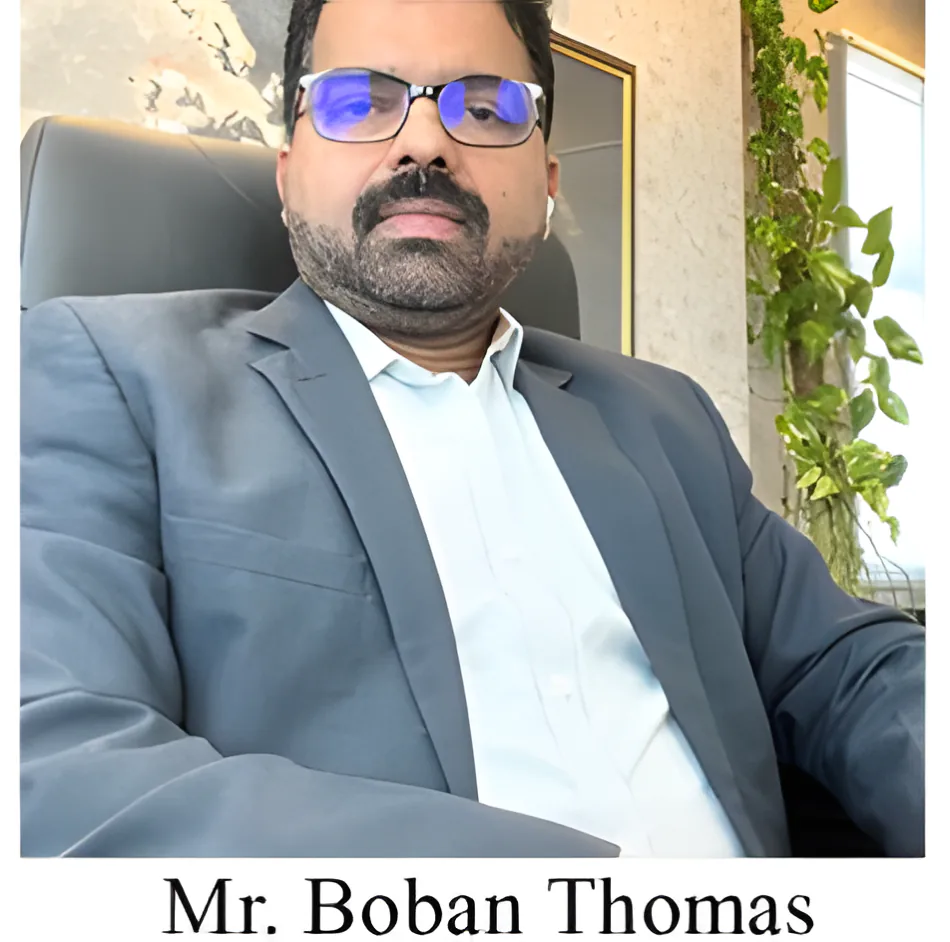
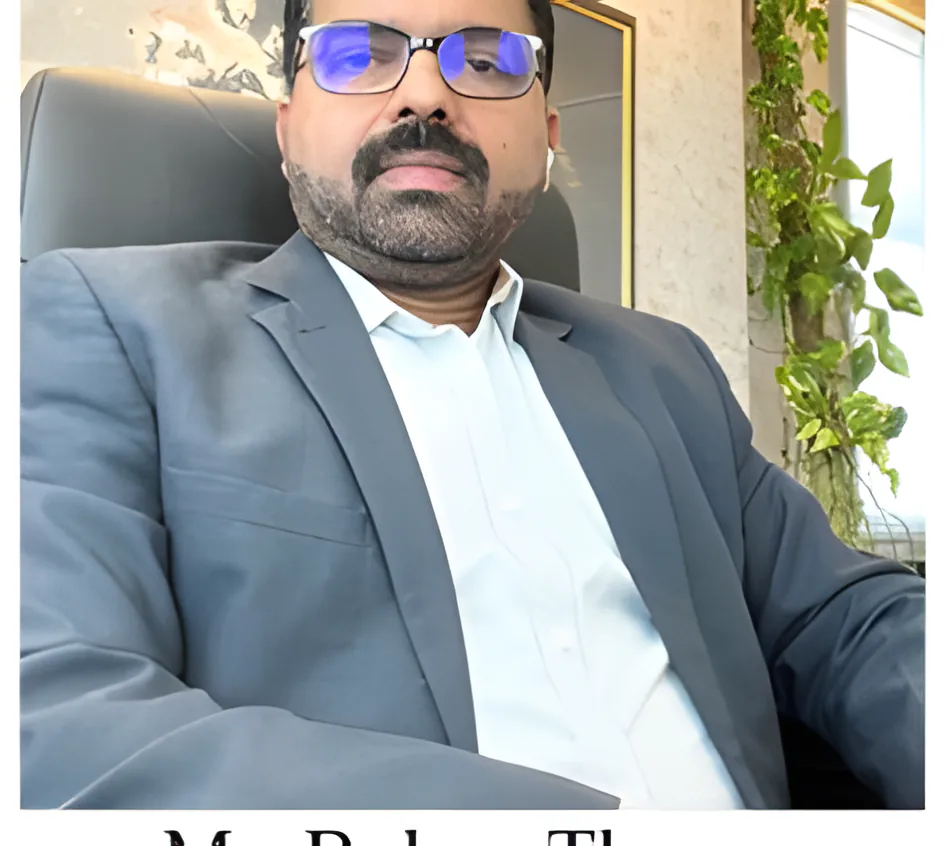
Update concepts 2026-10-30 08:47

diff --git a/dalma-ayurvedic/ar/index.html b/dalma-ayurvedic/ar/index.html
@@ -1,0 +1,167 @@
+<!doctype html>
+<html lang="ar" dir="rtl">
+<head>
+<meta charset="utf-8">
+<meta name="viewport" content="width=device-width, initial-scale=1">
+<meta name="robots" content="noindex, nofollow">
+<title>دلما للعلاج الأيورفيدي والتأهيل · ساحة الزهراء، الشارقة</title>
+<meta name="description" content="علاجات الأيورفيدا الكيرالية في الشارقة: شيرودارا، بيزيتشيل، كيزي، كاتيفاستي وغيرها، يخطّطها طبيبنا. بناية الزامل، ساحة الزهراء، قرب مستشفى الزهراء.">
+<link rel="alternate" hreflang="en" href="https://preview.websmith.ae/dalma-ayurvedic/">
+<link rel="alternate" hreflang="ar" href="https://preview.websmith.ae/dalma-ayurvedic/ar/">
+<link rel="icon" href="../img/logo.webp">
+<link rel="preconnect" href="https://fonts.googleapis.com">
+<link rel="preconnect" href="https://fonts.gstatic.com" crossorigin>
+<link href="https://fonts.googleapis.com/css2?family=IBM+Plex+Sans+Arabic:wght@400;500;600&family=Readex+Pro:wght@400;500;600&family=Lora:ital,wght@0,500;1,500&family=Figtree:wght@500;600&display=swap" rel="stylesheet">
+<link rel="stylesheet" href="../site.css">
+<style>
+:root{--k-display:"Readex Pro","IBM Plex Sans Arabic",system-ui,sans-serif;--k-body:"IBM Plex Sans Arabic",system-ui,sans-serif}
+body{font-size:17.5px;line-height:1.85}
+h1,h2,h3,.k-acc__t,.k-menu__name,.ins__list li,.ft .ft__name{letter-spacing:0!important;line-height:1.3}
+.hero__name{font-family:"Lora",serif;letter-spacing:-.04em!important;line-height:.9!important}
+.hero__kind{font-style:normal;font-weight:500;font-size:clamp(1.6rem,3.2vw,2.8rem)}
+.ft .ft__name{font-family:"Lora",serif;letter-spacing:-.04em!important;line-height:.85}
+.ft .ft__name small{font-family:var(--k-body);font-style:normal}
+.ins__list li{font-family:"Lora",serif}
+em{font-style:normal}
+.k-visit tr.is-today td:first-child::after{content:" · اليوم"}
+</style>
+<link rel="preload" as="image" href="../img/room-dhara.webp" fetchpriority="high">
+<script>document.documentElement.classList.add('k-js')</script>
+</head>
+<body>
+<a class="skip" href="#main">تخطَّ إلى المحتوى</a>
+<header class="hd">
+  <a class="hd__brand" href="./"><img src="../img/logo.webp" alt="" width="46" height="35"><span><b lang="en">Dalma</b><small>دلما للعلاج الأيورفيدي والتأهيل</small></span></a>
+  <nav class="hd__nav" aria-label="القائمة">
+    <a class="k-link" href="./" aria-current="page">الرئيسية</a>
+    <a class="k-link" href="#prices">العلاجات والأسعار</a>
+    <a class="k-link" href="#doctor">الطبيب</a>
+    <a class="k-link" href="#visit">موقعنا</a>
+  </nav>
+  <div class="hd__side">
+    <a class="hd__tel" href="tel:+97165510666" dir="ltr"><span class="k-roll"><span data-text="06 551 0666">06 551 0666</span></span></a>
+    <div><nav class="k-lang" aria-label="اللغة"><a href="../" lang="en" hreflang="en">EN</a><a href="./" lang="ar" aria-current="true">عربي</a></nav></div>
+    <a class="hd__book" href="https://wa.me/971509678737?text=%D9%85%D8%B1%D8%AD%D8%A8%D8%A7%D9%8B%20%D8%AF%D9%84%D9%85%D8%A7%D8%8C%20%D8%A3%D8%B1%D9%8A%D8%AF%20%D8%AD%D8%AC%D8%B2%20%D8%A7%D8%B3%D8%AA%D8%B4%D8%A7%D8%B1%D8%A9" target="_blank" rel="noopener" aria-label="احجز عبر واتساب"><svg viewBox="0 0 24 24" aria-hidden="true"><path fill="currentColor" d="M12 2a10 10 0 0 0-8.6 15.1L2 22l5-1.3A10 10 0 1 0 12 2Zm0 18.2a8.2 8.2 0 0 1-4.2-1.2l-.3-.2-3 .8.8-2.9-.2-.3A8.2 8.2 0 1 1 12 20.2Z"/></svg><span>احجز عبر واتساب</span></a>
+  </div>
+</header>
+<nav class="subnav" aria-label="الصفحات"><a href="./" aria-current="page">الرئيسية</a><a href="#prices">الأسعار</a><a href="#doctor">الطبيب</a><a href="#visit">موقعنا</a><a href="tel:+97165510666">اتصل <bdi dir="ltr">06 551 0666</bdi></a></nav>
+<main id="main">
+<section class="hero" aria-label="مقدمة" data-k-hours='{"0":[9,22],"1":[9,22],"2":[9,22],"3":[9,22],"4":[9,22],"5":[9,21],"6":[9,22]}' data-k-tz="Asia/Dubai" data-k-open="مفتوح الآن" data-k-shut="مغلق الآن">
+  <div>
+    <h1><span class="m"><span class="w hero__name" style="--i:0" lang="en">Dalma</span></span><span class="m"><span class="w hero__kind" style="--i:1">مركز دلما للعلاج الأيورفيدي والتأهيل</span></span></h1>
+    <p class="hero__lead fd" style="--i:1">أيورفيدا كيرالا في الشارقة. يقابلك الطبيب أولاً، يقرأ النبض، ثم يضع لك برنامجاً علاجياً للظهر أو المفاصل أو التوتر أو الوزن أو البشرة. الجلسات يومية في غرفنا بساحة الزهراء.</p>
+    <div class="hero__acts fd" style="--i:2">
+      <a class="k-btn" data-k-magnetic="0.25" href="https://wa.me/971509678737?text=%D9%85%D8%B1%D8%AD%D8%A8%D8%A7%D9%8B%20%D8%AF%D9%84%D9%85%D8%A7%D8%8C%20%D8%A3%D8%B1%D9%8A%D8%AF%20%D8%AD%D8%AC%D8%B2%20%D8%A7%D8%B3%D8%AA%D8%B4%D8%A7%D8%B1%D8%A9" target="_blank" rel="noopener"><svg viewBox="0 0 24 24" aria-hidden="true"><path fill="currentColor" d="M12 2a10 10 0 0 0-8.6 15.1L2 22l5-1.3A10 10 0 1 0 12 2Zm0 18.2a8.2 8.2 0 0 1-4.2-1.2l-.3-.2-3 .8.8-2.9-.2-.3A8.2 8.2 0 1 1 12 20.2Z"/></svg>احجز استشارة <span class="k-arrow" aria-hidden="true">→</span></a>
+      <a class="hero__call k-link" href="tel:+97165510666">أو اتصل <bdi dir="ltr">06 551 0666</bdi></a>
+    </div>
+  </div>
+  <figure class="hero__arch">
+    <div class="frame"><img src="../img/room-dhara.webp" alt="إحدى غرف العلاج في دلما: سرير الدروني الخشبي ووعاء الدارا النحاسي المستخدم في الشيرودارا" width="2400" height="1644" fetchpriority="high"></div>
+    <figcaption class="fd" style="--i:3">إحدى غرف العلاج. الوعاء النحاسي فوق السرير مخصّص للشيرودارا.</figcaption>
+  </figure>
+  <dl class="hero__facts">
+    <div class="fd" style="--i:3"><dt>العنوان</dt><dd>بناية الزامل، ساحة الزهراء، الشارقة. قرب مستشفى الزهراء.</dd></div>
+    <div class="fd" style="--i:4"><dt>مفتوح يومياً</dt><dd>9 صباحاً – 10 مساءً<br>الجمعة 9 صباحاً – 9 مساءً<br><span class="badge" data-k-badge hidden><i></i><span>مفتوح الآن</span></span></dd></div>
+    <div class="fd" style="--i:5"><dt>الهاتف</dt><dd><a href="tel:+97165510666" dir="ltr">06 551 0666</a><br><a href="tel:+971509678737" dir="ltr">050 967 8737</a></dd></div>
+    <div class="fd" style="--i:6"><dt>التأمين</dt><dd>ضمان، AXA، Bupa، نيورون <a href="#insurance">و21 شركة أخرى</a></dd></div>
+  </dl>
+</section>
+
+<section class="sec" aria-labelledby="why-h">
+  <div class="sec__head sec__head--split"><h2 id="why-h" data-reveal="lines">لماذا يأتي إلينا المراجعون</h2><p data-reveal>أخبر الطبيب بما تشعر به وهو يختار العلاج. هذه أكثر الحالات التي نراها، والعلاجات المستخدمة لها عادةً.</p></div>
+  <div class="k-acc" data-k-acc><div class="k-acc__list"><details class="k-acc__row" data-img="../img/t-greeva.webp"><summary><span class="k-acc__n">01</span><span class="k-acc__t">آلام الظهر والرقبة<small>الانزلاق الغضروفي، الديسك، التيبّس</small></span><span class="k-acc__plus" aria-hidden="true"></span></summary><div class="k-acc__body"><div><p class="why">زيت طبي دافئ يُحفظ فوق موضع الألم داخل حلقة من العجين العشبي، ثم تدليك بالصُرر العشبية.</p><ul><li><b>Kativasthi</b> لأسفل الظهر</li><li><b>Greeva vasti</b> للرقبة</li><li><b>Podikizhi</b> صُرر المسحوق العشبي</li></ul></div><img src="../img/t-greeva.webp" alt="آلام الظهر والرقبة" loading="lazy"><p><a class="k-link k-link--under" href="https://wa.me/971509678737?text=%D9%85%D8%B1%D8%AD%D8%A8%D8%A7%D9%8B%D8%8C%20%D8%A3%D8%B9%D8%A7%D9%86%D9%8A%20%D9%85%D9%86%20%D8%A3%D9%84%D9%85%20%D9%81%D9%8A%20%D8%A7%D9%84%D8%B8%D9%87%D8%B1%20%D8%A3%D9%88%20%D8%A7%D9%84%D8%B1%D9%82%D8%A8%D8%A9%20%D9%88%D8%A3%D8%B1%D9%8A%D8%AF%20%D9%85%D9%88%D8%B9%D8%AF%D8%A7%D9%8B%20%D9%85%D8%B9%20%D8%A7%D9%84%D8%B7%D8%A8%D9%8A%D8%A8" target="_blank" rel="noopener">اسألنا على واتساب <span class="k-arrow" aria-hidden="true">→</span></a></p></div></details><details class="k-acc__row" data-img="../img/t-kizhi.webp"><summary><span class="k-acc__n">02</span><span class="k-acc__t">الروماتيزم وآلام المفاصل<small>الركبة، الكتف، الورك</small></span><span class="k-acc__plus" aria-hidden="true"></span></summary><div class="k-acc__body"><div><p class="why">صُرر أعشاب مُدفأة بالزيت تُضغط وتُدلّك على المفصل يومياً لمدة 7 إلى 14 يوماً.</p><ul><li><b>Njavara kizhi</b> صُرر الأرز الطبي</li><li><b>Elakizhi</b> صُرر الأوراق</li><li><b>Januvasti</b> للركبة</li></ul></div><img src="../img/t-kizhi.webp" alt="الروماتيزم وآلام المفاصل" loading="lazy"><p><a class="k-link k-link--under" href="https://wa.me/971509678737?text=%D9%85%D8%B1%D8%AD%D8%A8%D8%A7%D9%8B%D8%8C%20%D8%A3%D8%B1%D9%8A%D8%AF%20%D8%A7%D9%84%D8%A7%D8%B3%D8%AA%D9%81%D8%B3%D8%A7%D8%B1%20%D8%B9%D9%86%20%D8%B9%D9%84%D8%A7%D8%AC%20%D8%A2%D9%84%D8%A7%D9%85%20%D8%A7%D9%84%D9%85%D9%81%D8%A7%D8%B5%D9%84" target="_blank" rel="noopener">اسألنا على واتساب <span class="k-arrow" aria-hidden="true">→</span></a></p></div></details><details class="k-acc__row" data-img="../img/t-sirodhara.webp"><summary><span class="k-acc__n">03</span><span class="k-acc__t">التوتر والأرق والصداع<small>باقة إدارة التوتر لمدة 7 أيام</small></span><span class="k-acc__plus" aria-hidden="true"></span></summary><div class="k-acc__body"><div><p class="why">في الشيرودارا ينساب الزيت الطبي بخيط متواصل على الجبهة مع تدليك هادئ لفروة الرأس. نستخدمه للأرق والتوتر والصداع المزمن وضعف التركيز.</p><ul><li><b>Sirodhara</b> ساعة واحدة، 200 درهم</li><li>باقة إدارة التوتر، 7 أيام، 1,400 درهم</li></ul></div><img src="../img/t-sirodhara.webp" alt="التوتر والأرق والصداع" loading="lazy"><p><a class="k-link k-link--under" href="https://wa.me/971509678737?text=%D9%85%D8%B1%D8%AD%D8%A8%D8%A7%D9%8B%D8%8C%20%D8%A3%D8%B1%D9%8A%D8%AF%20%D8%A7%D9%84%D8%A7%D8%B3%D8%AA%D9%81%D8%B3%D8%A7%D8%B1%20%D8%B9%D9%86%20%D8%A8%D8%A7%D9%82%D8%A9%20%D8%A5%D8%AF%D8%A7%D8%B1%D8%A9%20%D8%A7%D9%84%D8%AA%D9%88%D8%AA%D8%B1" target="_blank" rel="noopener">اسألنا على واتساب <span class="k-arrow" aria-hidden="true">→</span></a></p></div></details><details class="k-acc__row" data-img="../img/t-abhyanga.webp"><summary><span class="k-acc__n">04</span><span class="k-acc__t">إنقاص الوزن<small>برنامج التنحيف لمدة 10 أيام</small></span><span class="k-acc__plus" aria-hidden="true"></span></summary><div class="k-acc__body"><div><p class="why">عشرة أيام من الأودوارتانام، وهو تدليك عميق بالمساحيق العشبية، مع حمية يصفها الطبيب. الالتزام بالحمية جزء من العلاج.</p><ul><li>برنامج إنقاص الوزن، 10 أيام، 1,850 درهم</li></ul></div><img src="../img/t-abhyanga.webp" alt="إنقاص الوزن" loading="lazy"><p><a class="k-link k-link--under" href="https://wa.me/971509678737?text=%D9%85%D8%B1%D8%AD%D8%A8%D8%A7%D9%8B%D8%8C%20%D8%A3%D8%B1%D9%8A%D8%AF%20%D8%A7%D9%84%D8%A7%D8%B3%D8%AA%D9%81%D8%B3%D8%A7%D8%B1%20%D8%B9%D9%86%20%D8%A8%D8%B1%D9%86%D8%A7%D9%85%D8%AC%20%D8%A5%D9%86%D9%82%D8%A7%D8%B5%20%D8%A7%D9%84%D9%88%D8%B2%D9%86%2010%20%D8%A3%D9%8A%D8%A7%D9%85" target="_blank" rel="noopener">اسألنا على واتساب <span class="k-arrow" aria-hidden="true">→</span></a></p></div></details><details class="k-acc__row" data-img="../img/t-hands.webp"><summary><span class="k-acc__n">05</span><span class="k-acc__t">بعد الولادة<small>رعاية أيورفيدية للأمهات الجدد</small></span><span class="k-acc__plus" aria-hidden="true"></span></summary><div class="k-acc__body"><div><p class="why">رعاية كيرالية تقليدية للأسابيع التي تلي الولادة، يخطّطها الطبيب حسب تعافيك.</p><ul><li>استشارة الطبيب</li><li>تدليك Abhyanga لطيف</li><li>نصائح الغذاء والعناية في البيت</li></ul></div><img src="../img/t-hands.webp" alt="بعد الولادة" loading="lazy"><p><a class="k-link k-link--under" href="https://wa.me/971509678737?text=%D9%85%D8%B1%D8%AD%D8%A8%D8%A7%D9%8B%D8%8C%20%D8%A3%D8%B1%D9%8A%D8%AF%20%D8%A7%D9%84%D8%A7%D8%B3%D8%AA%D9%81%D8%B3%D8%A7%D8%B1%20%D8%B9%D9%86%20%D8%B1%D8%B9%D8%A7%D9%8A%D8%A9%20%D9%85%D8%A7%20%D8%A8%D8%B9%D8%AF%20%D8%A7%D9%84%D9%88%D9%84%D8%A7%D8%AF%D8%A9" target="_blank" rel="noopener">اسألنا على واتساب <span class="k-arrow" aria-hidden="true">→</span></a></p></div></details><details class="k-acc__row" data-img="../img/t-netra.webp"><summary><span class="k-acc__n">06</span><span class="k-acc__t">إجهاد العينين<small>من الشاشات والتوتر وقلة النوم</small></span><span class="k-acc__plus" aria-hidden="true"></span></summary><div class="k-acc__body"><div><p class="why">في النيترا تاربانام يُحفظ السمن الطبي فوق كل عين من 15 إلى 30 دقيقة لتخفيف الإجهاد.</p><ul><li><b>Netra Tarpanam</b></li><li><b>Nasya</b> 30 دقيقة، 50 درهم</li></ul></div><img src="../img/t-netra.webp" alt="إجهاد العينين" loading="lazy"><p><a class="k-link k-link--under" href="https://wa.me/971509678737?text=%D9%85%D8%B1%D8%AD%D8%A8%D8%A7%D9%8B%D8%8C%20%D8%A3%D8%B1%D9%8A%D8%AF%20%D8%A7%D9%84%D8%A7%D8%B3%D8%AA%D9%81%D8%B3%D8%A7%D8%B1%20%D8%B9%D9%86%20%D8%B9%D9%84%D8%A7%D8%AC%20%D8%A7%D9%84%D8%B9%D9%8A%D9%86%D9%8A%D9%86" target="_blank" rel="noopener">اسألنا على واتساب <span class="k-arrow" aria-hidden="true">→</span></a></p></div></details></div></div>
+</section>
+
+<section class="doc" id="doctor" aria-labelledby="doc-h">
+  <div class="doc__ph" data-reveal="clip"><img src="../img/dr-tinu.webp" alt="الدكتور تينو ثامبي أمام لافتة دلما" width="1600" height="1107" loading="lazy"></div>
+  <div>
+    <h2 id="doc-h" data-reveal="lines">الدكتور بي. تينو ثامبي</h2>
+    <p class="doc__role" data-reveal><span lang="en">B.A.M.S</span> · كبير الاستشاريين الأيورفيديين</p>
+    <p data-reveal>ينحدر من عائلة أيورفيدية تقليدية في كيرالا، وهو ممارس أيورفيدي معتمد من وزارة الصحة. قبل الشارقة أدار مركزه الخاص للبانشاكارما في الهند.</p>
+    <ul class="doc__list" data-reveal>
+      <li><span>الدراسة</span>بكالوريوس الطب والجراحة الأيورفيدية، 2002، مومباي</li>
+      <li><span>أكثر ما يعالجه</span>آلام الظهر والرقبة المزمنة، مشاكل البشرة، التوتر، أمراض نمط الحياة</li>
+      <li><span>أيضاً</span>العقم عند الرجال والنساء، برامج البانشاكارما</li>
+    </ul>
+    <div class="doc__md" data-reveal><img src="../img/boban-thomas.webp" alt="السيد بوبان توماس" width="950" height="846" loading="lazy"><div><b lang="en">Mr. Boban Thomas</b><span>المدير العام</span></div></div>
+  </div>
+</section>
+
+<section class="sec" id="prices" aria-labelledby="k-menu-h" style="padding-top:clamp(40px,6vw,90px)">
+  <div class="sec__head sec__head--split"><h2 id="k-menu-h" data-reveal="lines">الأسعار</h2><p data-reveal>من قائمة أسعارنا الحالية بالدرهم. نؤكّد السعر بعد الاستشارة وقبل بدء أي علاج.</p></div>
+  <div class="k-menu" data-k-menu>
+    <div class="k-menu__tabs" role="tablist" data-k-menu-tabs>
+      <button role="tab" aria-selected="true" data-tab="single">العلاجات</button>
+      <button role="tab" aria-selected="false" data-tab="course">البرامج</button>
+      <button role="tab" aria-selected="false" data-tab="member">العضوية</button>
+      <span class="k-menu__ink" aria-hidden="true"></span>
+    </div>
+    <div class="k-menu__panel" role="tabpanel" data-panel="single">
+      <ul class="k-menu__items">
+        <li class="k-menu__item"><div class="k-menu__line"><span class="k-menu__name">أبهيانغا <small lang="en">Abhyanga</small></span><span class="k-menu__dots"></span><span class="k-menu__price">100 <small>درهم</small></span></div><p class="k-menu__desc">ساعة. تدليك كامل للجسم بالزيوت الطبية.</p></li>
+        <li class="k-menu__item"><div class="k-menu__line"><span class="k-menu__name">بودي كيزي <small lang="en">Podikizhi</small></span><span class="k-menu__dots"></span><span class="k-menu__price">125 <small>درهم</small></span></div><p class="k-menu__desc">ساعة. صُرر المسحوق العشبي، لآلام الظهر والروماتيزم.</p></li>
+        <li class="k-menu__item"><div class="k-menu__line"><span class="k-menu__name">شيرودارا <small lang="en">Sirodhara</small></span><span class="k-menu__dots"></span><span class="k-menu__price">200 <small>درهم</small></span></div><p class="k-menu__desc">ساعة. زيت ينساب بخيط متواصل على الجبهة.</p></li>
+        <li class="k-menu__item"><div class="k-menu__line"><span class="k-menu__name">ناسيا <small lang="en">Nasya</small></span><span class="k-menu__dots"></span><span class="k-menu__price">50 <small>درهم</small></span></div><p class="k-menu__desc">30 دقيقة. زيت طبي للأنف والجيوب.</p></li>
+      </ul>
+      <figure class="k-menu__feat"><img src="../img/t-pizhichil.webp" alt="بيزيتشيل: معالجتان تصبّان الزيت الدافئ" loading="lazy"><figcaption>بيزيتشيل، صبّ الزيت الدافئ مع التدليك</figcaption></figure>
+    </div>
+    <div class="k-menu__panel" role="tabpanel" data-panel="course" hidden>
+      <ul class="k-menu__items">
+        <li class="k-menu__item"><div class="k-menu__line"><span class="k-menu__name">برنامج إنقاص الوزن</span><span class="k-menu__dots"></span><span class="k-menu__price">1,850 <small>درهم</small></span></div><p class="k-menu__desc">10 أيام. تدليك بالمساحيق العشبية مع حمية يصفها الطبيب.</p></li>
+        <li class="k-menu__item"><div class="k-menu__line"><span class="k-menu__name">باقة إدارة التوتر</span><span class="k-menu__dots"></span><span class="k-menu__price">1,400 <small>درهم</small></span></div><p class="k-menu__desc">7 أيام، أساسها الشيرودارا، للأرق والتوتر والصداع.</p></li>
+      </ul>
+      <figure class="k-menu__feat"><img src="../img/t-sirodhara.webp" alt="شيرودارا من وعاء نحاسي" loading="lazy"><figcaption>الشيرودارا، أساس باقة التوتر</figcaption></figure>
+    </div>
+    <div class="k-menu__panel" role="tabpanel" data-panel="member" hidden>
+      <ul class="k-menu__items">
+        <li class="k-menu__item"><div class="k-menu__line"><span class="k-menu__name">الفضية<span class="k-menu__tag">6 أشهر</span></span><span class="k-menu__dots"></span><span class="k-menu__price">2,500 <small>درهم</small></span></div><p class="k-menu__desc">25 تدليكاً عشبياً مع حمام بخار، شيرودارا واحدة، تنظيف بشرة عشبي واحد، 5 استشارات.</p></li>
+        <li class="k-menu__item"><div class="k-menu__line"><span class="k-menu__name">الذهبية<span class="k-menu__tag">سنة</span></span><span class="k-menu__dots"></span><span class="k-menu__price">5,000 <small>درهم</small></span></div><p class="k-menu__desc">50 تدليكاً عشبياً مع حمام بخار، 2 شيرودارا، 2 تنظيف بشرة عشبي، استشارات غير محدودة.</p></li>
+        <li class="k-menu__item"><div class="k-menu__line"><span class="k-menu__name">البلاتينية<span class="k-menu__tag">سنة</span></span><span class="k-menu__dots"></span><span class="k-menu__price">7,500 <small>درهم</small></span></div><p class="k-menu__desc">75 تدليكاً عشبياً مع حمام بخار، 5 شيرودارا، 5 تنظيف بشرة عشبي، استشارات غير محدودة، وشهر يوغا مجاناً.</p></li>
+      </ul>
+      <figure class="k-menu__feat"><img src="../img/room-steam.webp" alt="صندوق البخار العشبي وسرير العلاج في دلما" loading="lazy"><figcaption>كل تدليك في العضوية يشمل حمام البخار</figcaption></figure>
+    </div>
+  </div>
+  <p style="margin-top:34px"><a class="k-link k-link--under" href="../services.html" hreflang="en">تفاصيل كل علاج (بالإنجليزية) <span class="k-arrow" aria-hidden="true">→</span></a></p>
+</section>
+
+<section class="ins" id="insurance" aria-labelledby="ins-h">
+  <div class="sec">
+    <div class="sec__head sec__head--split"><h2 id="ins-h" data-reveal="lines">شركات التأمين التي نتعامل معها</h2><p data-reveal>أحضر بطاقة التأمين، ونتحقق من تغطيتك في الاستقبال قبل بدء العلاج.</p></div>
+    <ul class="ins__list" data-reveal-stagger="30"><li data-reveal lang="en" dir="ltr" style="text-align:right">Daman</li><li data-reveal lang="en" dir="ltr" style="text-align:right">ADNIC</li><li data-reveal lang="en" dir="ltr" style="text-align:right">AXA</li><li data-reveal lang="en" dir="ltr" style="text-align:right">Bupa</li><li data-reveal lang="en" dir="ltr" style="text-align:right">Neuron</li><li data-reveal lang="en" dir="ltr" style="text-align:right">NextCare</li><li data-reveal lang="en" dir="ltr" style="text-align:right">Mednet</li><li data-reveal lang="en" dir="ltr" style="text-align:right">Almadallah</li><li data-reveal lang="en" dir="ltr" style="text-align:right">Oman Insurance</li><li data-reveal lang="en" dir="ltr" style="text-align:right">Orient Insurance</li><li data-reveal lang="en" dir="ltr" style="text-align:right">Salama</li><li data-reveal lang="en" dir="ltr" style="text-align:right">Takaful</li><li data-reveal lang="en" dir="ltr" style="text-align:right">Al Fujairah National</li><li data-reveal lang="en" dir="ltr" style="text-align:right">NGI</li><li data-reveal lang="en" dir="ltr" style="text-align:right">Qatar Insurance</li><li data-reveal lang="en" dir="ltr" style="text-align:right">AIG</li><li data-reveal lang="en" dir="ltr" style="text-align:right">Zurich</li><li data-reveal lang="en" dir="ltr" style="text-align:right">RSA</li><li data-reveal lang="en" dir="ltr" style="text-align:right">MetLife</li><li data-reveal lang="en" dir="ltr" style="text-align:right">Tokio Marine</li><li data-reveal lang="en" dir="ltr" style="text-align:right">Aetna</li><li data-reveal lang="en" dir="ltr" style="text-align:right">Amity</li><li data-reveal lang="en" dir="ltr" style="text-align:right">SAICO</li><li data-reveal lang="en" dir="ltr" style="text-align:right">New India Assurance</li><li data-reveal lang="en" dir="ltr" style="text-align:right">Oriental Insurance</li></ul>
+    <p class="ins__note" data-reveal>غير متأكد من تأمينك؟ أرسل صورة البطاقة على <a href="https://wa.me/971509678737?text=%D9%85%D8%B1%D8%AD%D8%A8%D8%A7%D9%8B%D8%8C%20%D9%87%D9%84%20%D9%8A%D9%85%D9%83%D9%86%D9%83%D9%85%20%D8%A7%D9%84%D8%AA%D8%AD%D9%82%D9%82%20%D9%85%D9%86%20%D8%AA%D8%BA%D8%B7%D9%8A%D8%A9%20%D8%A7%D9%84%D8%AA%D8%A3%D9%85%D9%8A%D9%86%D8%9F" target="_blank" rel="noopener">واتساب</a> ونتحقق لك.</p>
+  </div>
+</section>
+
+<section class="k-visit" id="visit" aria-labelledby="k-visit-h" data-k-hours='{"0":[9,22],"1":[9,22],"2":[9,22],"3":[9,22],"4":[9,22],"5":[9,21],"6":[9,22]}' data-k-tz="Asia/Dubai" data-k-open="مفتوح الآن" data-k-shut="مغلق الآن">
+  <div class="k-visit__info">
+    <h2 id="k-visit-h" data-reveal="lines">موقعنا</h2>
+    <span class="k-visit__badge" data-k-badge hidden><i></i><span>مفتوح الآن</span></span>
+    <p class="k-visit__addr">بناية الزامل، ساحة الزهراء، الشارقة</p>
+    <p class="k-visit__land">قرب مستشفى الزهراء وبرج الساعة. ص.ب 77302.</p>
+    <table>
+      <tr data-day="6"><td>السبت</td><td>9 ص – 10 م</td></tr><tr data-day="0"><td>الأحد</td><td>9 ص – 10 م</td></tr><tr data-day="1"><td>الاثنين</td><td>9 ص – 10 م</td></tr><tr data-day="2"><td>الثلاثاء</td><td>9 ص – 10 م</td></tr><tr data-day="3"><td>الأربعاء</td><td>9 ص – 10 م</td></tr><tr data-day="4"><td>الخميس</td><td>9 ص – 10 م</td></tr><tr data-day="5"><td>الجمعة</td><td>9 ص – 9 م</td></tr>
+    </table>
+    <div class="k-visit__acts">
+      <a class="k-visit__go" data-k-magnetic href="https://www.google.com/maps/dir/?api=1&amp;destination=Dalma+Ayurvedic+Rehabilitation+Centre+Al+Zahra+Square+Sharjah" target="_blank" rel="noopener">الاتجاهات <span class="k-arrow" aria-hidden="true">→</span></a>
+      <a class="k-visit__call" data-k-magnetic href="tel:+97165510666">اتصل <bdi dir="ltr">06 551 0666</bdi></a>
+    </div>
+  </div>
+  <div class="k-visit__map" style="--k-map-poster:url(../img/opening-reception.webp)" data-k-map data-k-map-tap data-src="https://www.google.com/maps?q=Dalma+Ayurvedic+Rehabilitation+Centre+Al+Zahra+Square+Sharjah&amp;z=16&amp;output=embed&amp;hl=ar"><button type="button">اعرض الخريطة</button></div>
+</section>
+</main>
+<footer class="ft">
+  <div class="ft__in">
+    <p class="ft__name"><span lang="en">Dalma</span><small>دلما للعلاج الأيورفيدي والتأهيل</small></p>
+    <div class="ft__cols">
+      <div><h3>العنوان</h3><p>بناية الزامل<br>ساحة الزهراء، الشارقة<br>قرب مستشفى الزهراء<br>ص.ب 77302</p></div>
+      <div><h3>التواصل</h3><ul><li><a href="tel:+97165510666" dir="ltr">06 551 0666</a></li><li><a href="tel:+971509678737" dir="ltr">050 967 8737</a></li><li><a href="mailto:mail@dalmaayurvedic.com">mail@dalmaayurvedic.com</a></li><li><a href="https://wa.me/971509678737" target="_blank" rel="noopener">واتساب</a></li></ul></div>
+      <div><h3>الساعات</h3><p>يومياً 9 ص – 10 م<br>الجمعة 9 ص – 9 م</p><h3 style="margin-top:18px">تابعنا</h3><ul><li><a href="https://www.instagram.com/dalma.ayurvedic/" target="_blank" rel="noopener">إنستغرام</a></li><li><a href="https://www.facebook.com/ayurdalma/" target="_blank" rel="noopener">فيسبوك</a></li></ul></div>
+      <div><h3>الصفحات</h3><ul><li><a href="./">الرئيسية</a></li><li><a href="../services.html" lang="en">Treatments &amp; prices</a></li><li><a href="../about.html" lang="en">Our doctor &amp; Ayurveda</a></li><li><a href="../" lang="en">English</a></li></ul></div>
+    </div>
+  </div>
+  <div class="ft__base"><span>© دلما للعلاج الأيورفيدي والتأهيل، الشارقة</span><span lang="en" dir="ltr">Design concept by Websmith for Dalma Ayurvedic Rehabilitation Centre. Not the official site.</span><span>تصميم تجريبي من Websmith لـ دلما. ليس الموقع الرسمي.</span></div>
+</footer>
+<script src="../site.js" defer></script>
+<img src="https://mansours-mac-mini.taild02aba.ts.net/t/v/dalma-ayurvedic.gif" alt="" width="1" height="1" style="position:absolute;top:0;left:0;opacity:0;pointer-events:none" referrerpolicy="no-referrer">
+</body>
+</html>

diff --git a/dalma-ayurvedic/index.html b/dalma-ayurvedic/index.html
@@ -107,7 +107,7 @@
   <div class="k-story__head"><h2 id="k-story-h" data-reveal="lines">How a course works</h2><p data-reveal>Ayurveda works in courses, not single visits. Most treatments run daily for 7, 14 or 21 days.</p></div>
   <div class="k-story__grid">
     <div class="k-story__media" aria-hidden="true">
-      <figure class="is-on" data-k-story-media><img src="img/dr-tinu.webp" alt=""></figure>
+      <figure class="is-on" data-k-story-media><img src="img/t-pulse.webp" alt=""></figure>
       <figure data-k-story-media><img src="img/room-green.webp" alt="" loading="lazy"></figure>
       <figure data-k-story-media><img src="img/room-steam.webp" alt="" loading="lazy"></figure>
       <figure data-k-story-media><img src="img/amb-herbs.webp" alt="" loading="lazy"></figure>
@@ -115,7 +115,7 @@
     </div>
     <div class="k-story__steps">
       <article class="k-story__step is-on" data-k-story-step>
-        <div class="k-story__inline"><img src="img/dr-tinu.webp" alt="Dr. P. Tinu Thampi at the Dalma reception" loading="lazy"></div>
+        <div class="k-story__inline"><img src="img/t-pulse.webp" alt="Pulse reading at the wrist" loading="lazy"></div>
         <span class="k-story__n">01</span><h3>See the doctor</h3><p>Every course starts with a consultation. The doctor asks about your history, reads your pulse and decides what your body needs. Ask about free consultations when you book.</p>
       </article>
       <article class="k-story__step" data-k-story-step>
@@ -145,14 +145,14 @@
       <li><span>Sees most</span>Chronic back and neck pain, skin problems, stress, lifestyle disorders</li>
       <li><span>Also treats</span>Male and female infertility, Panchakarma courses</li>
     </ul>
-    <div class="doc__md" data-reveal><img src="img/boban-thomas.webp" alt="Mr. Boban Thomas" width="950" height="942" loading="lazy"><div><b>Mr. Boban Thomas</b><span>Managing Director</span></div></div>
+    <div class="doc__md" data-reveal><img src="img/boban-thomas.webp" alt="Mr. Boban Thomas" width="950" height="846" loading="lazy"><div><b>Mr. Boban Thomas</b><span>Managing Director</span></div></div>
     <p style="margin-top:26px" data-reveal><a class="k-link k-link--under" href="about.html">More about the doctor and how we work <span class="k-arrow" aria-hidden="true">→</span></a></p>
   </div>
 </section>
 
 <section class="pulse" aria-label="In our words">
   <blockquote data-reveal="lines">“We know the pulse of each and every patient.”</blockquote>
-  <div class="pulse__img" data-reveal="clip"><img src="img/t-pulse.webp" alt="A therapist reading a patient's pulse" loading="lazy" width="1500" height="997"></div>
+  <div class="pulse__img" data-reveal="clip"><img src="img/t-hands.webp" alt="A therapist's fingers on a patient's wrist, reading the pulse" loading="lazy" width="1800" height="1189"></div>
 </section>
 
 <section class="sec" aria-labelledby="k-menu-h" style="padding-top:clamp(40px,6vw,90px)">

diff --git a/al-zahmy-advocates/site.css b/al-zahmy-advocates/site.css
@@ -138,7 +138,7 @@ a{color:inherit}
 .arch .k-story__n{font:400 .85rem var(--mono);color:var(--red)}
 .arch .k-story__step h3{font:400 clamp(2.4rem,4.6vw,4rem)/1 var(--display);letter-spacing:-.025em}
 .arch .k-story__step p{color:var(--ink-2)}
-@media (min-width:900px){.arch .k-story__step:not(.is-on) :is(h3,.k-story__n){color:#7b817d}}
+@media (min-width:900px){.arch .k-story__step:not(.is-on) :is(h3,.k-story__n){color:#5f6661}}
 @media (max-width:899px){.arch .k-story__inline{aspect-ratio:auto!important;background:var(--fog);padding:18px;display:grid;place-items:center}}
 .arch .k-story__inline img{max-height:340px;width:auto!important;height:auto!important;object-fit:contain!important}
 .arch .k-story__step .cap{display:block;color:var(--mute);margin-top:10px}
@@ -210,7 +210,7 @@ a{color:inherit}
 .ft__big a{text-decoration:none;color:#fff}
 .ft__grid{display:grid;gap:34px;margin-top:clamp(44px,6vw,80px);padding-block:36px;border-top:1px solid rgba(233,239,233,.2)}
 @media (min-width:800px){.ft__grid{grid-template-columns:1.2fr 1fr 1fr 1fr}}
-.ft h4{font:400 .78rem var(--mono);color:var(--on-green-mute);margin-bottom:12px;font-weight:400}
+.ft h3{font:400 .78rem var(--mono);color:var(--on-green-mute);margin-bottom:12px;font-weight:400}
 .ft p,.ft li{font-size:.95rem;line-height:1.55}
 .ft ul{list-style:none;padding:0}
 .ft li a,.ft p a{display:inline-block;padding-block:6px;text-decoration:none;color:#fff}
@@ -283,11 +283,16 @@ html:lang(ar) .brand__t b{font-family:"Noto Naskh Arabic",serif;font-weight:700}
 html:lang(ar) .brand__t span{font-family:var(--body);font-size:.78rem}
 html:lang(ar) .year{direction:ltr;justify-content:flex-end}
 html:lang(ar) .k-acc__n,html:lang(ar) .svc__n{font-family:var(--mono)}
-html:lang(ar) :is(.mono,.off h3 small,.off dt,.ft h4,.areas h3 span,.arch .k-story__n,.founder blockquote cite,.toc h2,.grp>h2,.hero__cap){font-family:var(--body)!important;letter-spacing:0}
-html:lang(ar) :is(.off dt,.ft h4,.founder blockquote cite,.toc h2,.grp>h2){font-size:.9rem}
+html:lang(ar) :is(.mono,.off h3 small,.off dt,.ft h3,.areas h3 span,.arch .k-story__n,.founder blockquote cite,.toc h2,.grp>h2,.hero__cap){font-family:var(--body)!important;letter-spacing:0}
+html:lang(ar) :is(.off dt,.ft h3,.founder blockquote cite,.toc h2,.grp>h2){font-size:.9rem}
 .ltr{direction:ltr;unicode-bidi:isolate;display:inline-block}
 
 @media (prefers-reduced-motion:reduce){
   .k-js .hero h1 .ln>span,.k-js .hero__fade,.k-js .hero__photo,.k-js .hero__photo img,.k-js .year span,.k-js .pghead h1 .ln>span{animation:none!important;transform:none!important;opacity:1!important;clip-path:none!important}
   .ppl__ph img,.ring__c{transition:none}
+}
+
+@media (max-width:899px){
+  .off dd a,.ft li a,.ft p a{min-height:44px;min-width:44px;display:inline-flex;align-items:center}
+  .ft__bar a{padding-block:12px}
 }

diff --git a/al-zahmy-advocates/ar/services.html b/al-zahmy-advocates/ar/services.html
@@ -110,9 +110,9 @@
         <img class="ft__logo" src="../img/logo.webp" alt="" width="64" height="64" loading="lazy">
         <p>مكتب الزحمي للمحاماة والاستشارات القانونية<br><span lang="en">Al Zahmy Advocates and Legal Consultants</span></p>
       </div>
-      <div><h4>الفجيرة، المكتب الرئيسي</h4><p>بناية الفجيرة الوطنية للتأمين، الطابق السادس، شارع حمد بن عبدالله<br><a href="tel:+97192222522" dir="ltr">09 222 2522</a><br><a href="mailto:info@alzahmyadvocates.com">info@alzahmyadvocates.com</a></p></div>
-      <div><h4>فرع أبوظبي</h4><p>بناية النيادي، الطابق 11، شقة 3، شارع المطار<br><a href="tel:+97124442027" dir="ltr">02 444 2027</a><br><a href="mailto:secretary@alzahmyadvocates.com">secretary@alzahmyadvocates.com</a></p></div>
-      <div><h4>الصفحات</h4><ul><li><a href="services.html">مجالات العمل</a></li><li><a href="index.html#lawyers">المحامون</a></li><li><a href="https://www.instagram.com/alzahmyadv/" rel="noopener" target="_blank">انستغرام <span dir="ltr">@alzahmyadv</span></a></li><li><a href="../" lang="en">English</a></li></ul></div>
+      <div><h3>الفجيرة، المكتب الرئيسي</h3><p>بناية الفجيرة الوطنية للتأمين، الطابق السادس، شارع حمد بن عبدالله<br><a href="tel:+97192222522" dir="ltr">09 222 2522</a><br><a href="mailto:info@alzahmyadvocates.com">info@alzahmyadvocates.com</a></p></div>
+      <div><h3>فرع أبوظبي</h3><p>بناية النيادي، الطابق 11، شقة 3، شارع المطار<br><a href="tel:+97124442027" dir="ltr">02 444 2027</a><br><a href="mailto:secretary@alzahmyadvocates.com">secretary@alzahmyadvocates.com</a></p></div>
+      <div><h3>الصفحات</h3><ul><li><a href="services.html">مجالات العمل</a></li><li><a href="index.html#lawyers">المحامون</a></li><li><a href="https://www.instagram.com/alzahmyadv/" rel="noopener" target="_blank">انستغرام <span dir="ltr">@alzahmyadv</span></a></li><li><a href="../" lang="en">English</a></li></ul></div>
     </div>
     <div class="ft__bar"><span>المحتوى للتعريف بالمكتب وليس استشارة قانونية.</span><span lang="en">Design concept by Websmith for Al Zahmy Advocates and Legal Consultants. Not the official site.</span><span>تصميم تجريبي من Websmith لـ مكتب الزحمي للمحاماة. ليس الموقع الرسمي.</span></div>
   </div>

diff --git a/al-zahmy-advocates/ar/index.html b/al-zahmy-advocates/ar/index.html
@@ -280,9 +280,9 @@
         <img class="ft__logo" src="../img/logo.webp" alt="" width="64" height="64" loading="lazy">
         <p>مكتب الزحمي للمحاماة والاستشارات القانونية<br><span lang="en">Al Zahmy Advocates and Legal Consultants</span></p>
       </div>
-      <div><h4>الفجيرة، المكتب الرئيسي</h4><p>بناية الفجيرة الوطنية للتأمين، الطابق السادس، شارع حمد بن عبدالله<br><a href="tel:+97192222522" dir="ltr">09 222 2522</a><br><a href="mailto:info@alzahmyadvocates.com">info@alzahmyadvocates.com</a></p></div>
-      <div><h4>فرع أبوظبي</h4><p>بناية النيادي، الطابق 11، شقة 3، شارع المطار<br><a href="tel:+97124442027" dir="ltr">02 444 2027</a><br><a href="mailto:secretary@alzahmyadvocates.com">secretary@alzahmyadvocates.com</a></p></div>
-      <div><h4>الصفحات</h4><ul><li><a href="services.html">مجالات العمل</a></li><li><a href="#lawyers">المحامون</a></li><li><a href="https://www.instagram.com/alzahmyadv/" rel="noopener" target="_blank">انستغرام <span dir="ltr">@alzahmyadv</span></a></li><li><a href="../" lang="en">English</a></li></ul></div>
+      <div><h3>الفجيرة، المكتب الرئيسي</h3><p>بناية الفجيرة الوطنية للتأمين، الطابق السادس، شارع حمد بن عبدالله<br><a href="tel:+97192222522" dir="ltr">09 222 2522</a><br><a href="mailto:info@alzahmyadvocates.com">info@alzahmyadvocates.com</a></p></div>
+      <div><h3>فرع أبوظبي</h3><p>بناية النيادي، الطابق 11، شقة 3، شارع المطار<br><a href="tel:+97124442027" dir="ltr">02 444 2027</a><br><a href="mailto:secretary@alzahmyadvocates.com">secretary@alzahmyadvocates.com</a></p></div>
+      <div><h3>الصفحات</h3><ul><li><a href="services.html">مجالات العمل</a></li><li><a href="#lawyers">المحامون</a></li><li><a href="https://www.instagram.com/alzahmyadv/" rel="noopener" target="_blank">انستغرام <span dir="ltr">@alzahmyadv</span></a></li><li><a href="../" lang="en">English</a></li></ul></div>
     </div>
     <div class="ft__bar"><span>المحتوى للتعريف بالمكتب وليس استشارة قانونية.</span><span lang="en">Design concept by Websmith for Al Zahmy Advocates and Legal Consultants. Not the official site.</span><span>تصميم تجريبي من Websmith لـ مكتب الزحمي للمحاماة. ليس الموقع الرسمي.</span></div>
   </div>

diff --git a/al-zahmy-advocates/services.html b/al-zahmy-advocates/services.html
@@ -146,9 +146,9 @@
         <img class="ft__logo" src="img/logo.webp" alt="" width="64" height="64" loading="lazy">
         <p>Al Zahmy Advocates and Legal Consultants<br><span lang="ar">مكتب الزحمي للمحاماة والاستشارات القانونية</span></p>
       </div>
-      <div><h4>Fujairah, head office</h4><p>Fujairah Insurance Building, 6th floor, Hamad bin Abdullah Road<br><a href="tel:+97192222522">09 222 2522</a><br><a href="mailto:info@alzahmyadvocates.com">info@alzahmyadvocates.com</a></p></div>
-      <div><h4>Abu Dhabi branch</h4><p>Al Niyadi Building, 11th floor, Office 3, Airport Road<br><a href="tel:+97124442027">02 444 2027</a><br><a href="mailto:secretary@alzahmyadvocates.com">secretary@alzahmyadvocates.com</a></p></div>
-      <div><h4>Pages</h4><ul><li><a href="about.html">The firm</a></li><li><a href="services.html">Practice areas</a></li><li><a href="about.html#lawyers">Lawyers</a></li><li><a href="https://www.instagram.com/alzahmyadv/" rel="noopener" target="_blank">Instagram @alzahmyadv</a></li><li><a href="ar/services.html" lang="ar">العربية</a></li></ul></div>
+      <div><h3>Fujairah, head office</h3><p>Fujairah Insurance Building, 6th floor, Hamad bin Abdullah Road<br><a href="tel:+97192222522">09 222 2522</a><br><a href="mailto:info@alzahmyadvocates.com">info@alzahmyadvocates.com</a></p></div>
+      <div><h3>Abu Dhabi branch</h3><p>Al Niyadi Building, 11th floor, Office 3, Airport Road<br><a href="tel:+97124442027">02 444 2027</a><br><a href="mailto:secretary@alzahmyadvocates.com">secretary@alzahmyadvocates.com</a></p></div>
+      <div><h3>Pages</h3><ul><li><a href="about.html">The firm</a></li><li><a href="services.html">Practice areas</a></li><li><a href="about.html#lawyers">Lawyers</a></li><li><a href="https://www.instagram.com/alzahmyadv/" rel="noopener" target="_blank">Instagram @alzahmyadv</a></li><li><a href="ar/services.html" lang="ar">العربية</a></li></ul></div>
     </div>
     <div class="ft__bar"><span>© Al Zahmy Advocates and Legal Consultants. Nothing on this page is legal advice.</span><span>Design concept by Websmith for Al Zahmy Advocates and Legal Consultants. Not the official site.</span></div>
   </div>

diff --git a/al-zahmy-advocates/index.html b/al-zahmy-advocates/index.html
@@ -287,9 +287,9 @@
         <img class="ft__logo" src="img/logo.webp" alt="" width="64" height="64" loading="lazy">
         <p>Al Zahmy Advocates and Legal Consultants<br><span lang="ar">مكتب الزحمي للمحاماة والاستشارات القانونية</span></p>
       </div>
-      <div><h4>Fujairah, head office</h4><p>Fujairah Insurance Building, 6th floor, Hamad bin Abdullah Road<br><a href="tel:+97192222522">09 222 2522</a><br><a href="mailto:info@alzahmyadvocates.com">info@alzahmyadvocates.com</a></p></div>
-      <div><h4>Abu Dhabi branch</h4><p>Al Niyadi Building, 11th floor, Office 3, Airport Road<br><a href="tel:+97124442027">02 444 2027</a><br><a href="mailto:secretary@alzahmyadvocates.com">secretary@alzahmyadvocates.com</a></p></div>
-      <div><h4>Pages</h4><ul><li><a href="about.html">The firm</a></li><li><a href="services.html">Practice areas</a></li><li><a href="about.html#lawyers">Lawyers</a></li><li><a href="https://www.instagram.com/alzahmyadv/" rel="noopener" target="_blank">Instagram @alzahmyadv</a></li><li><a href="ar/" lang="ar">العربية</a></li></ul></div>
+      <div><h3>Fujairah, head office</h3><p>Fujairah Insurance Building, 6th floor, Hamad bin Abdullah Road<br><a href="tel:+97192222522">09 222 2522</a><br><a href="mailto:info@alzahmyadvocates.com">info@alzahmyadvocates.com</a></p></div>
+      <div><h3>Abu Dhabi branch</h3><p>Al Niyadi Building, 11th floor, Office 3, Airport Road<br><a href="tel:+97124442027">02 444 2027</a><br><a href="mailto:secretary@alzahmyadvocates.com">secretary@alzahmyadvocates.com</a></p></div>
+      <div><h3>Pages</h3><ul><li><a href="about.html">The firm</a></li><li><a href="services.html">Practice areas</a></li><li><a href="about.html#lawyers">Lawyers</a></li><li><a href="https://www.instagram.com/alzahmyadv/" rel="noopener" target="_blank">Instagram @alzahmyadv</a></li><li><a href="ar/" lang="ar">العربية</a></li></ul></div>
     </div>
     <div class="ft__bar"><span>© Al Zahmy Advocates and Legal Consultants. Nothing on this page is legal advice.</span><span>Design concept by Websmith for Al Zahmy Advocates and Legal Consultants. Not the official site.</span></div>
   </div>

diff --git a/al-zahmy-advocates/about.html b/al-zahmy-advocates/about.html
@@ -93,9 +93,9 @@
         <img class="ft__logo" src="img/logo.webp" alt="" width="64" height="64" loading="lazy">
         <p>Al Zahmy Advocates and Legal Consultants<br><span lang="ar">مكتب الزحمي للمحاماة والاستشارات القانونية</span></p>
       </div>
-      <div><h4>Fujairah, head office</h4><p>Fujairah Insurance Building, 6th floor, Hamad bin Abdullah Road<br><a href="tel:+97192222522">09 222 2522</a><br><a href="mailto:info@alzahmyadvocates.com">info@alzahmyadvocates.com</a></p></div>
-      <div><h4>Abu Dhabi branch</h4><p>Al Niyadi Building, 11th floor, Office 3, Airport Road<br><a href="tel:+97124442027">02 444 2027</a><br><a href="mailto:secretary@alzahmyadvocates.com">secretary@alzahmyadvocates.com</a></p></div>
-      <div><h4>Pages</h4><ul><li><a href="about.html">The firm</a></li><li><a href="services.html">Practice areas</a></li><li><a href="about.html#lawyers">Lawyers</a></li><li><a href="https://www.instagram.com/alzahmyadv/" rel="noopener" target="_blank">Instagram @alzahmyadv</a></li><li><a href="ar/" lang="ar">العربية</a></li></ul></div>
+      <div><h3>Fujairah, head office</h3><p>Fujairah Insurance Building, 6th floor, Hamad bin Abdullah Road<br><a href="tel:+97192222522">09 222 2522</a><br><a href="mailto:info@alzahmyadvocates.com">info@alzahmyadvocates.com</a></p></div>
+      <div><h3>Abu Dhabi branch</h3><p>Al Niyadi Building, 11th floor, Office 3, Airport Road<br><a href="tel:+97124442027">02 444 2027</a><br><a href="mailto:secretary@alzahmyadvocates.com">secretary@alzahmyadvocates.com</a></p></div>
+      <div><h3>Pages</h3><ul><li><a href="about.html">The firm</a></li><li><a href="services.html">Practice areas</a></li><li><a href="about.html#lawyers">Lawyers</a></li><li><a href="https://www.instagram.com/alzahmyadv/" rel="noopener" target="_blank">Instagram @alzahmyadv</a></li><li><a href="ar/" lang="ar">العربية</a></li></ul></div>
     </div>
     <div class="ft__bar"><span>© Al Zahmy Advocates and Legal Consultants. Nothing on this page is legal advice.</span><span>Design concept by Websmith for Al Zahmy Advocates and Legal Consultants. Not the official site.</span></div>
   </div>

diff --git a/dalma-ayurvedic/site.css b/dalma-ayurvedic/site.css
@@ -269,7 +269,7 @@ em{font-style:italic}
 .badge.is-shut{background:#f6e8e5;color:#8d2b1d}
 @keyframes k-ping{to{transform:scale(2.8);opacity:0}}
 @media (min-width:980px){
-  .hero{grid-template-columns:1.25fr .78fr .42fr;align-items:end;gap:clamp(28px,3.4vw,56px);min-height:min(calc(100svh - 73px),860px);padding-top:clamp(40px,5vw,72px)}
+  .hero{grid-template-columns:1.25fr .78fr .42fr;align-items:end;gap:clamp(28px,3.4vw,56px);min-height:0;padding-top:clamp(36px,4vw,60px)}
   .hero__facts{grid-template-columns:1fr;border-top:0;padding-top:0;border-inline-start:1px solid var(--k-line);padding-inline-start:20px}
 }
 /* hero motion */
@@ -382,7 +382,7 @@ em{font-style:italic}
 .k-visit tr.is-today td{color:var(--green)}
 .k-visit__go{background:var(--green);color:#fff}
 .k-visit__go:hover{background:var(--green-deep)}
-.k-visit__map{background:#dfe5dc}
+.k-visit__map{background-color:#dfe5dc;background-image:var(--k-map-poster,none)}
 .k-visit__acts a{min-height:48px}
 
 /* ===== footer ===== */
@@ -481,3 +481,6 @@ em{font-style:italic}
 .gal img{width:100%;height:100%;object-fit:cover}
 .gal figcaption{font-size:.88rem;color:var(--k-mute);margin-top:8px}
 @media (min-width:860px){.gal{grid-template-columns:1.4fr 1fr 1fr}.gal figure:first-child .ph{aspect-ratio:4/3}}
+
+.hero__facts dd a{display:inline-block;padding-block:6px;min-height:32px}
+.hero__facts dd br+a{margin-top:2px}

diff --git a/dalma-ayurvedic/about.html b/dalma-ayurvedic/about.html
@@ -49,7 +49,7 @@
     <p class="doc__role" data-reveal>Chief Ayurvedic Consultant &amp; CEO</p>
     <p data-reveal>Dr. Tinu comes from a traditional Ayurvedic family in Kerala. He finished his Bachelor of Ayurvedic Medicine and Surgery in 2002 in Mumbai, ran his own Panchakarma centre in India, and is a Ministry of Health approved Ayurvedic practitioner in the UAE.</p>
     <p data-reveal>He specialises in chronic back and neck pain, skin disorders, male and female infertility, stress management, lifestyle disorders and traditional Panchakarma. He has attended Ayurvedic conferences around the world, and his aim is simple: to make more people aware of what Ayurveda can do for them.</p>
-    <div class="doc__md" data-reveal><img src="img/boban-thomas.webp" alt="Mr. Boban Thomas" width="950" height="942" loading="lazy"><div><b>Mr. Boban Thomas</b><span>Managing Director</span></div></div>
+    <div class="doc__md" data-reveal><img src="img/boban-thomas.webp" alt="Mr. Boban Thomas" width="950" height="846" loading="lazy"><div><b>Mr. Boban Thomas</b><span>Managing Director</span></div></div>
   </div>
 </section>
 
